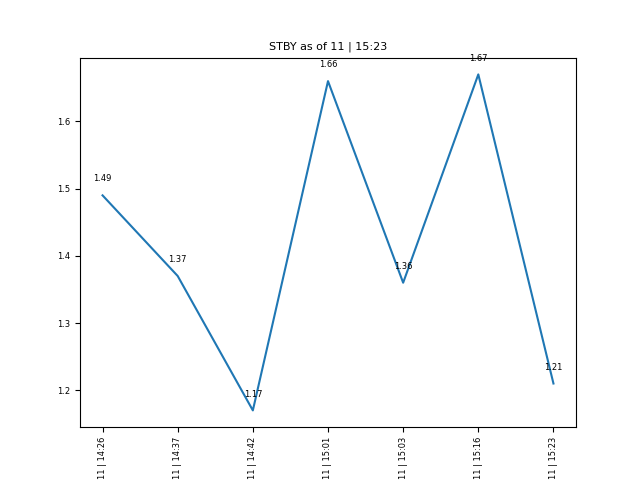
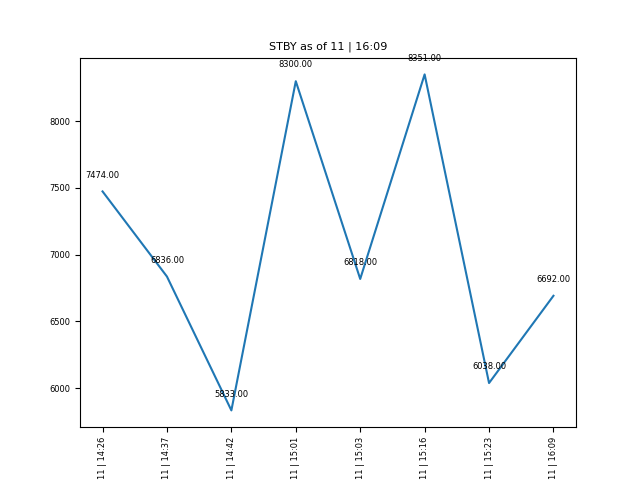
Clean plant.py

diff --git a/objects/economy/farm/plant.py b/objects/economy/farm/plant.py
@@ -77,7 +77,7 @@ class Plant(Base):
 
         # Format y-axis labels
         def y_label(price):
-            return round((price / 2) * 4 / 10000, 2)
+            return round(price, 2)
         
         # Graph axes
         time_x = [x_label(log.refreshed_at) for log in _plantstats]
